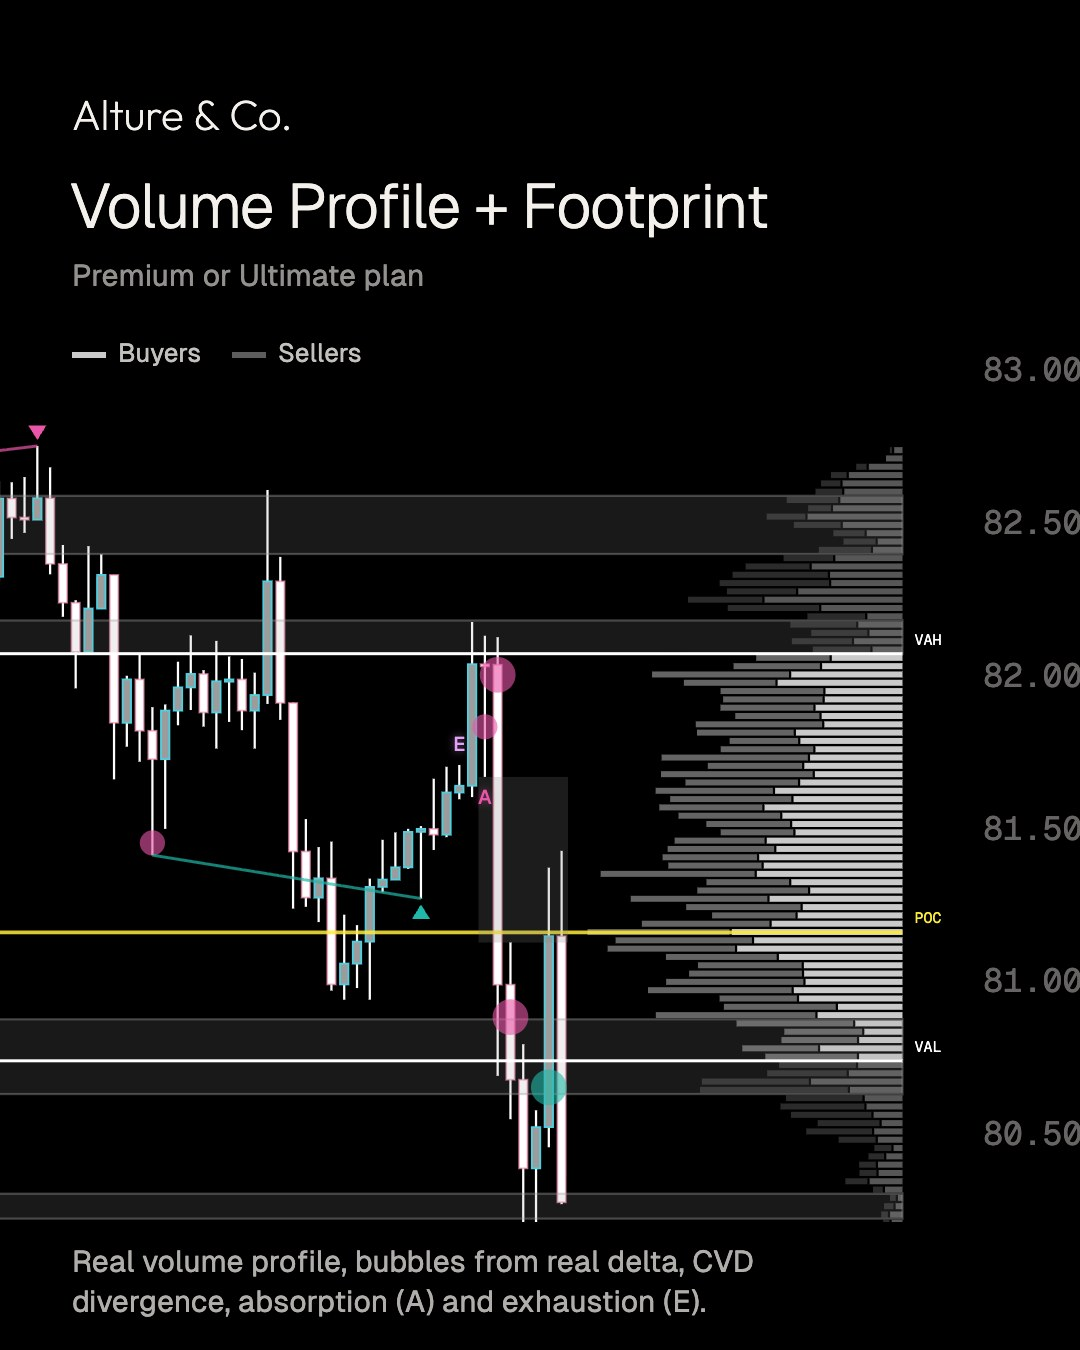
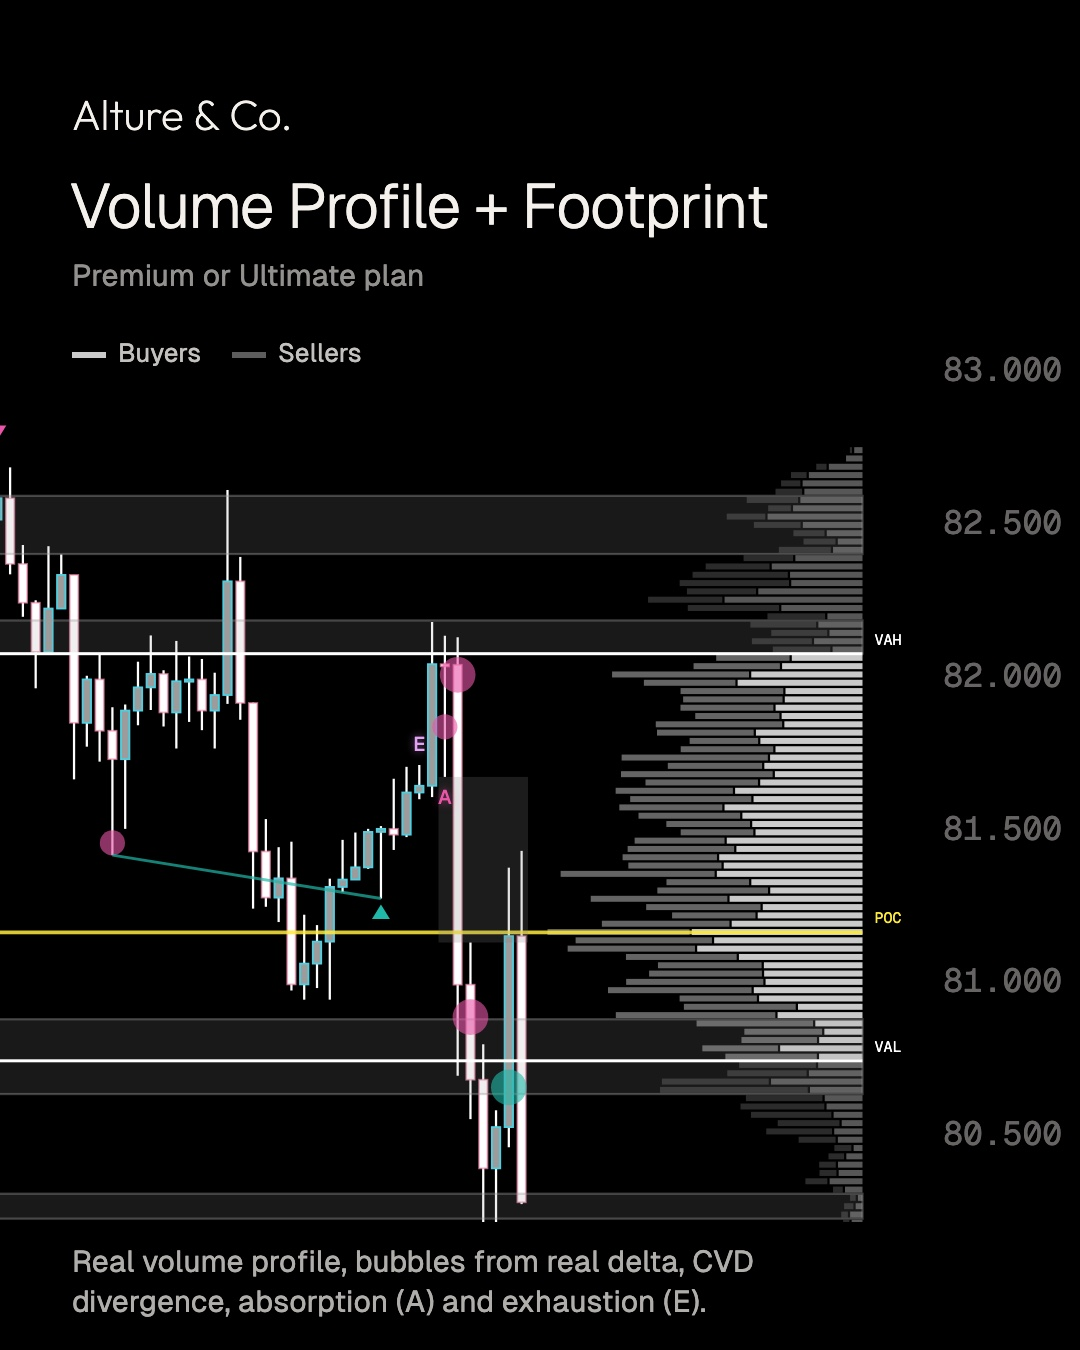
iPhone: compare table in two columns, feature label clear of the image, quiet prices; journal without the double frame, stats two by two, periods in one scrolling row; footer no longer wider than the screen; Volume Profile + Footprint image keeps its price scale; product page lists the trading rules

diff --git a/src/app/(site)/indicators/indicators-explorer.tsx b/src/app/(site)/indicators/indicators-explorer.tsx
@@ -35,15 +35,15 @@ const INDICATORS: Indicator[] = [
         text: "Market context, structure and entry timing together. The order flow comes from TradingView's footprint data: the real volume bought and sold at each price.",
         data: "real",
         features: [
-            at(VP, [55.5, 33, 28.5, 57.5]),
+            at(VP, [51.8, 33, 28.5, 57.5]),
             VWAP,
             EMA,
             at(LVN, [0, 36.5, 84, 4.6], [0, 75.4, 84, 5.7]),
-            at(MS, [0, 30.5, 5.5, 3.5], [36.8, 66, 4.6, 3]),
-            at(FVG, [44.2, 57.5, 8.6, 12.4]),
-            { spots: [[43.5, 46.8, 5.2, 5.4], [12, 60.3, 4.2, 4.2], [44.5, 72.3, 4.6, 4.6], [48.2, 77.6, 4, 4]], name: "Delta bubbles", what: "Each bubble is the difference between what was bought at the ask and sold at the bid in a candle, taken from the real footprint. A large bubble at a level shows where one side pushed hard." },
-            { spots: [[12.5, 60.5, 27, 7.2]], name: "CVD divergence", what: "Cumulative volume delta adds every candle's delta. When price makes a new high but CVD does not, buyers are no longer behind the move: a warning before the reversal." },
-            { spots: [[40.8, 53, 6.4, 7.2]], name: "Absorption (A) and exhaustion (E)", what: "Absorption: heavy selling or buying hits a level and price does not move, someone large is absorbing it. Exhaustion: the push runs out of volume at the end of a move. Both are read from the real footprint." },
+            at(MS, [0, 30.5, 5.5, 3.5], [33.1, 66, 4.6, 3]),
+            at(FVG, [40.5, 57.5, 8.6, 12.4]),
+            { spots: [[39.8, 46.8, 5.2, 5.4], [8.3, 60.3, 4.2, 4.2], [40.8, 72.3, 4.6, 4.6], [44.5, 77.6, 4, 4]], name: "Delta bubbles", what: "Each bubble is the difference between what was bought at the ask and sold at the bid in a candle, taken from the real footprint. A large bubble at a level shows where one side pushed hard." },
+            { spots: [[8.8, 60.5, 27, 7.2]], name: "CVD divergence", what: "Cumulative volume delta adds every candle's delta. When price makes a new high but CVD does not, buyers are no longer behind the move: a warning before the reversal." },
+            { spots: [[37.1, 53, 6.4, 7.2]], name: "Absorption (A) and exhaustion (E)", what: "Absorption: heavy selling or buying hits a level and price does not move, someone large is absorbing it. Exhaustion: the push runs out of volume at the end of a move. Both are read from the real footprint." },
         ],
     },
     {
@@ -129,7 +129,7 @@ const Spotlight = ({ item, feature, index }: { item: Indicator; feature: Feature
                 ))}
             </svg>
             {spots.length > 0 && (
-                <span key={feature.name} className="spot-in absolute bottom-3 left-3 rounded-sm bg-black/80 px-2 py-1 font-mono text-[11px] text-white backdrop-blur">
+                <span key={feature.name} className="spot-in absolute right-3 top-3 max-w-[70%] truncate rounded-sm bg-black/80 px-2 py-1 font-mono text-[11px] text-white backdrop-blur">
                     {String(index + 1).padStart(2, "0")} · {feature.name}
                 </span>
             )}
@@ -177,8 +177,8 @@ const Section = ({ item, index }: { item: Indicator; index: number }) => {
 
                         <div className="mt-9 flex flex-wrap items-center justify-between gap-x-8 gap-y-5">
                             <p className="flex items-baseline gap-2">
-                                <span className="font-logo text-4xl font-light tabular-nums text-white">{item.price ? `$${item.price}` : "Free"}</span>
-                                {item.price > 0 && <span className="text-sm text-white/45">/ month</span>}
+                                <span className="text-[22px] font-medium tabular-nums text-white">{item.price ? `$${item.price}` : "Free"}</span>
+                                {item.price > 0 && <span className="text-[14px] text-white/45">per month</span>}
                             </p>
                             <Link href="/#contact" className="group inline-flex items-center gap-3 rounded-sm bg-white px-7 py-4 text-sm font-semibold text-black transition-colors hover:bg-[#e4e4e8] lit">
                                 {item.price ? "Request access" : "Get it free"}
@@ -203,10 +203,10 @@ const Compare = () => (
         <div className="container mx-auto max-w-7xl px-4 md:px-6">
             <p className={label}>Tick-level or 1-minute</p>
             <h2 className="text-3xl md:text-[40px] md:leading-[1.1] font-medium tracking-tight text-white">Same read. Different source.</h2>
-            <div className="mt-12 grid grid-cols-[minmax(0,7rem)_1fr_1fr] md:grid-cols-[10rem_1fr_1fr] border-t border-white/10 text-[14px]">
-                <span />
-                {COMPARE.map((c) => (
-                    <div key={c.name} className="relative border-l border-white/10 px-4 md:px-8 pt-7 pb-6">
+            <div className="mt-12 grid grid-cols-2 md:grid-cols-[10rem_1fr_1fr] border-t border-white/10 text-[14px]">
+                <span className="hidden md:block" />
+                {COMPARE.map((c, j) => (
+                    <div key={c.name} className={`relative border-white/10 pr-3 md:border-l md:px-8 pt-7 pb-6 ${j ? "border-l pl-4" : ""}`}>
                         {c.data === "real" && <span aria-hidden="true" className="pointer-events-none absolute inset-x-0 top-0 h-px bg-white shadow-[0_0_18px_2px_rgba(255, 255, 255,0.55)]" />}
                         <p className={`flex items-center gap-2 text-[11px] uppercase tracking-[0.14em] ${c.data === "real" ? "text-white" : "text-white/40"}`}>
                             <span className={`h-1.5 w-1.5 rounded-full ${c.data === "real" ? "bg-white shadow-[0_0_8px_#FFFFFF]" : "border border-white/40"}`} />
@@ -217,17 +217,17 @@ const Compare = () => (
                 ))}
                 {["Order flow from", "Sees", "TradingView plan"].map((term, i) => (
                     <div key={term} className="contents">
-                        <span className="border-t border-white/10 py-4 pr-3 text-[12px] uppercase tracking-[0.1em] text-white/35">{term}</span>
-                        {COMPARE.map((c) => (
-                            <span key={c.name} className={`border-l border-t border-white/10 px-4 md:px-8 py-4 ${c.data === "real" ? "text-white" : "text-white/50"}`}>
+                        <span className="col-span-2 md:col-span-1 border-t border-white/10 pt-4 md:py-4 pr-3 text-[11px] md:text-[12px] uppercase tracking-[0.1em] text-white/35">{term}</span>
+                        {COMPARE.map((c, j) => (
+                            <span key={c.name} className={`border-white/10 pt-2 pb-4 pr-3 ${j ? "border-l pl-4" : ""} md:border-t md:border-l md:px-8 md:py-4 ${c.data === "real" ? "text-white" : "text-white/50"}`}>
                                 {c.rows[i]}
                             </span>
                         ))}
                     </div>
                 ))}
-                <span className="border-t border-white/10 py-5 pr-3 text-[12px] uppercase tracking-[0.1em] text-white/35">Price</span>
-                {COMPARE.map((c) => (
-                    <span key={c.name} className="border-l border-t border-white/10 px-4 md:px-8 py-5">
+                <span className="col-span-2 md:col-span-1 border-t border-white/10 pt-4 md:py-5 pr-3 text-[11px] md:text-[12px] uppercase tracking-[0.1em] text-white/35">Price</span>
+                {COMPARE.map((c, j) => (
+                    <span key={c.name} className={`border-white/10 pt-2 pb-5 pr-3 md:border-t md:border-l md:px-8 md:py-5 ${j ? "border-l pl-4" : ""}`}>
                         <span className={`text-[17px] font-medium tabular-nums ${c.data === "real" ? "text-white" : "text-white/70"}`}>${c.price}</span>
                         <span className="ml-1 text-[13px] text-white/40">per month</span>
                     </span>

diff --git a/src/app/components/altur/journal/journal-studio.tsx b/src/app/components/altur/journal/journal-studio.tsx
@@ -499,15 +499,17 @@ const JournalStudio = ({ trades, positions, notes, onSaveNote, sample = false, r
     ];
 
     return (
-        <div style={vars} className={`bg-[var(--j-bg)] [background-image:var(--j-glow,none)] text-[var(--j-ink)] ${framed ? "rounded-[var(--j-radius,12px)] border border-white/10 px-4 pb-8 pt-6 md:px-6" : "-mx-4 -mt-6 min-h-[calc(100dvh-49px)] px-4 pb-16 pt-6 md:-mx-8 md:px-8 xl:-mx-10 xl:px-10"}`}>
+        <div style={vars} className={`bg-[var(--j-bg)] [background-image:var(--j-glow,none)] text-[var(--j-ink)] ${framed ? "-mx-4 px-3 pb-8 pt-4 md:mx-0 md:rounded-[var(--j-radius,12px)] md:border md:border-white/10 md:px-6 md:pt-6" : "-mx-4 -mt-6 min-h-[calc(100dvh-49px)] px-4 pb-16 pt-6 md:-mx-8 md:px-8 xl:-mx-10 xl:px-10"}`}>
             {/* Period, theme and sharing */}
             <div className="flex flex-wrap items-center gap-x-1.5 gap-y-2 text-[13px]">
+                <span className="-mx-3 flex w-[calc(100%+1.5rem)] gap-1 overflow-x-auto whitespace-nowrap px-3 [scrollbar-width:none] sm:mx-0 sm:w-auto sm:overflow-visible sm:px-0">
                 {presets.map(([id, text]) => (
                     <button key={id} type="button" aria-pressed={preset === id} onClick={() => setPreset(id)} className={`rounded-lg px-3 py-1.5 transition-colors ${preset === id ? "bg-[var(--j-active)] text-[var(--j-activeink)]" : quiet}`}>
                         {text}
                     </button>
                 ))}
-                <span className={`ml-1 flex items-center gap-1.5 rounded-lg px-2.5 py-1 ${preset === "custom" ? "bg-[var(--j-active)] text-[var(--j-activeink)]" : "bg-[var(--j-s1)] shadow-[var(--j-shadow)]"}`}>
+                </span>
+                <span className={`flex items-center gap-1.5 rounded-lg px-2.5 py-1 sm:ml-1 ${preset === "custom" ? "bg-[var(--j-active)] text-[var(--j-activeink)]" : "bg-[var(--j-s1)] shadow-[var(--j-shadow)]"}`}>
                     <input type="date" aria-label="From" value={custom.from} onChange={(e) => { setCustom({ ...custom, from: e.target.value }); if (custom.to) setPreset("custom"); }} className="!w-[8.6rem] !border-0 !bg-transparent !p-0 !text-[13px] !text-inherit [color-scheme:inherit]" />
                     <span className="opacity-50">–</span>
                     <input type="date" aria-label="To" value={custom.to} onChange={(e) => { setCustom({ ...custom, to: e.target.value }); if (custom.from) setPreset("custom"); }} className="!w-[8.6rem] !border-0 !bg-transparent !p-0 !text-[13px] !text-inherit" />
@@ -558,8 +560,8 @@ const JournalStudio = ({ trades, positions, notes, onSaveNote, sample = false, r
             )}
 
             {/* 1. Overview */}
-            <Module label="Overview" className="!py-0 mt-4 grid overflow-hidden sm:grid-cols-3 xl:grid-cols-[1.25fr_repeat(5,1fr)]">
-                <div className="p-5 sm:col-span-3 xl:col-span-1">
+            <Module label="Overview" className="!py-0 mt-4 grid grid-cols-2 overflow-hidden sm:grid-cols-3 xl:grid-cols-[1.25fr_repeat(5,1fr)]">
+                <div className="col-span-2 p-4 sm:col-span-3 sm:p-5 xl:col-span-1">
                     <p className="text-[12.5px] text-[var(--j-mu)]" title="Realised result of closed trades, after fees. Open positions count once closed.">Net P&amp;L · {range.label}</p>
                     <p className={`mt-2 leading-none tracking-tight ${inRange.length ? `font-logo text-[40px] font-extralight ${tone(stats.totalPnl)}` : "text-[26px] text-[var(--j-fa)]"}`}>{inRange.length ? money(stats.totalPnl) : "No trades yet"}</p>
                     {inRange.length ? (
@@ -579,10 +581,10 @@ const JournalStudio = ({ trades, positions, notes, onSaveNote, sample = false, r
                     const redDays = days.filter((v) => v < 0).length;
                     const avgW = stats.wins ? stats.averageWin : 0;
                     const avgL = stats.losses ? Math.abs(stats.averageLoss) : 0;
-                    const cell = "flex items-center gap-3.5 border-t border-[var(--j-line)] p-5 sm:border-l xl:border-t-0";
+                    const cell = "flex flex-col items-start gap-2.5 border-t border-[var(--j-line)] p-4 sm:flex-row sm:items-center sm:gap-3.5 sm:border-l sm:p-5 xl:border-t-0";
                     const head = (k: string, text = k) => <p className="text-[12.5px] text-[var(--j-mu)]" title={DEFINE[k]}>{text}</p>;
                     const big = "mt-1.5 font-mono text-[22px] leading-none";
-                    const small = "mt-1.5 whitespace-nowrap text-[11.5px] text-[var(--j-fa)]";
+                    const small = "mt-1.5 sm:whitespace-nowrap text-[11.5px] text-[var(--j-fa)]";
                     return (
                         <>
                             <div className={cell}>
@@ -593,7 +595,7 @@ const JournalStudio = ({ trades, positions, notes, onSaveNote, sample = false, r
                                     <p className={small}>{inRange.length ? `${stats.wins} won · ${stats.losses} lost` : ""}</p>
                                 </div>
                             </div>
-                            <div className={cell}>
+                            <div className={`${cell} border-l`}>
                                 <Gauge value={stats.profitFactor} />
                                 <div className="min-w-0">
                                     {head("Profit factor")}
@@ -609,7 +611,7 @@ const JournalStudio = ({ trades, positions, notes, onSaveNote, sample = false, r
                                     <p className={small}>{days.length ? `${greenDays} green · ${redDays} red days` : ""}</p>
                                 </div>
                             </div>
-                            <div className="border-t border-[var(--j-line)] p-5 sm:border-l xl:border-t-0">
+                            <div className="border-l border-t border-[var(--j-line)] p-4 sm:p-5 xl:border-t-0">
                                 {head("Win / loss")}
                                 <p className={big}>{avgW && avgL ? `${(avgW / avgL).toFixed(2)} ×` : empty}</p>
                                 <div className="mt-3 flex h-[7px] gap-[3px] overflow-hidden rounded-full">
@@ -621,7 +623,7 @@ const JournalStudio = ({ trades, positions, notes, onSaveNote, sample = false, r
                                     <span className="text-[var(--j-dn)]">{avgL ? money(-avgL, 0) : ""}</span>
                                 </p>
                             </div>
-                            <div className="border-t border-[var(--j-line)] p-5 sm:border-l xl:border-t-0">
+                            <div className="border-t border-[var(--j-line)] p-4 sm:border-l sm:p-5 xl:border-t-0">
                                 {head("Trades")}
                                 <p className={big}>{inRange.length ? stats.totalTrades : empty}</p>
                                 <p className={small}>{inRange.length ? (stats.maxDrawdown < 0.005 ? "No drawdown yet" : `Max drawdown ${hidden ? `−${MASK}` : `−$${stats.maxDrawdown.toLocaleString("en-US", { maximumFractionDigits: 0 })}`}`) : ""}</p>

diff --git a/src/app/components/altur/alture-lock/product-page.tsx b/src/app/components/altur/alture-lock/product-page.tsx
@@ -14,7 +14,7 @@ import PlanButton from "./plan-button";
 
 const STEPS = [
     { title: "You define the rules", text: "Risk per trade, stop distance, sessions, loss limits, entry confirmations." },
-    { title: "AltureLock locks them", text: "Every order passes the checklist first." },
+    { title: "AltureLock checks them", text: "Every trade goes through your pre-trade rules before you enter." },
     { title: "You execute. It monitors.", text: "Open trades are watched against your rules, and every result is recorded." },
 ];
 
@@ -37,11 +37,12 @@ const INDICATOR = [
 ];
 
 const TOOLS = [
-    ["Markets", "Crypto, WTI and Brent crude oil, gold, silver, the Nasdaq 100 and S&P 500, and crypto stocks, with live prices and your favourites."],
+    ["Trading rules", "Pre-trade rules for every setup: stop loss, take profit, risk/reward, position size and technical conditions checked on closed candles. The trade is ready only when every mandatory rule is confirmed."],
+    ["Alarms", "Live rules watch your open trade. Check (V1) when a condition needs a look, exit signal (V1) on a clear break of your structure, critical (V2) when your risk is at stake: full screen and sound until you confirm."],
     ["Chart", "Candles, live order flow with the Volume Profile, your trade plan drawn on the chart, and TradingView's drawing tools when you need them."],
+    ["Markets", "Crypto, WTI and Brent crude oil, gold, silver, the Nasdaq 100 and S&P 500, and crypto stocks, with live prices and your favourites."],
     ["News and briefing", "Crypto and macro headlines from their publishers, with an AI briefing of what matters."],
     ["Economic calendar", "High-importance events, and the Asia, London, Paris and New York sessions."],
-    ["Your own limits", "Set how many trades or losses end your day, and be told when you are there."],
 ];
 
 // Prices. Only what exists today is listed as included; what is being built says so.
@@ -301,7 +302,7 @@ const ProductPage = () => {
                 <div className="container mx-auto max-w-7xl px-4 md:px-6">
                     <p className={label}>How it works</p>
                     <h2 className={`${heading} max-w-[16ch]`}>Your trading. Your rules. One system.</h2>
-                    <p className={`mt-6 max-w-xl ${body}`}>Experience does not stop a broken rule. AltureLock does: you set your rules once, and it enforces them on every trade.</p>
+                    <p className={`mt-6 max-w-xl ${body}`}>Experience does not stop a broken rule. AltureLock catches it: you set your rules once, it checks them before every trade and sounds the alarm when one breaks.</p>
                     <div className="mt-14 grid gap-x-12 gap-y-10 md:grid-cols-3">
                         {STEPS.map((step) => (
                             <div key={step.title}>
@@ -400,7 +401,7 @@ const ProductPage = () => {
             <section className="bg-black !py-16 md:!py-24">
                 <div className="container mx-auto max-w-7xl px-4 md:px-6">
                     <p className={label}>Integrated tools</p>
-                    <h2 className={`${heading} max-w-[18ch]`}>Everything you read before a trade, in one terminal.</h2>
+                    <h2 className={`${heading} max-w-[18ch]`}>Your rules, your alarms and the market, in one terminal.</h2>
                     <div className="mt-10 max-w-4xl">
                         <Shot src="/images/alturelock/terminal-flow.jpg" alt="The AltureLock terminal's order flow view of Bitcoin: candles with the Volume Profile, its POC and value area, and the state of each order flow layer" width={1600} height={1324} caption="The terminal's order flow view, from live Bybit trades." />
                     </div>

diff --git a/src/app/components/layout/footer/index.tsx b/src/app/components/layout/footer/index.tsx
@@ -18,7 +18,7 @@ const Footer = () => {
         <div className="grid grid-cols-1 md:grid-cols-12 gap-10 md:gap-8 mb-12 md:mb-20">
 
           {/* Brand Column */}
-          <div className="md:col-span-4 col-span-12">
+          <div className="md:col-span-4">
             <Link href="/" className="inline-block mb-6 md:mb-8">
               <div className="font-logo text-2xl md:text-3xl font-extralight text-white whitespace-nowrap">
                 Alture <span className="accent-light">&</span> Co.
@@ -28,7 +28,7 @@ const Footer = () => {
           </div>
 
           {/* Navigation Columns */}
-          <div className="md:col-span-8 col-span-12 grid grid-cols-1 sm:grid-cols-3 gap-8 md:gap-12">
+          <div className="md:col-span-8 grid grid-cols-1 sm:grid-cols-3 gap-8 md:gap-12">
             <div>
               <h4 className="text-[11px] !font-normal uppercase tracking-[0.14em] mb-4 md:mb-6 text-white/45">{t.footer.explore}</h4>
               <ul className="space-y-3 md:space-y-4">

diff --git a/reels/indicator-features/slides.html b/reels/indicator-features/slides.html
@@ -35,7 +35,7 @@
   ctx.save();
   ctx.translate(0, -280);
   // All-in-One: zoomed on the afternoon, where the bubbles, divergence, A and E are.
-  if (p === "allinone") { ctx.translate(1000, 1100); ctx.scale(1.5, 1.5); ctx.translate(-1000, -1100); }
+  if (p === "allinone") { ctx.translate(1080, 1100); ctx.scale(1.5, 1.5); ctx.translate(-1080, -1100); }
   REEL.tagSize = p === "allinone" ? 10 : 13; // VAH / POC / VAL labels, small
   if (p === "orderflow") REEL.slideBubbles = 0.6;
   if (p === "orderflow") REEL.scenes.find((s) => s.id === "03-orderflow").draw(ctx, 3.4);
